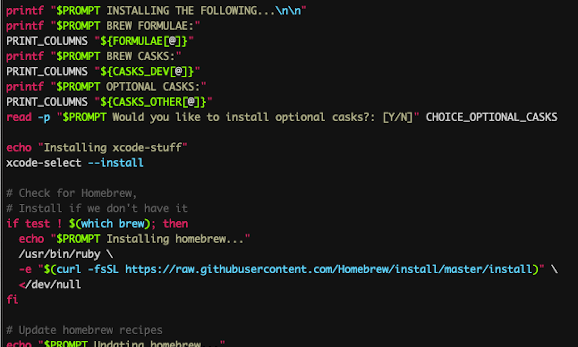
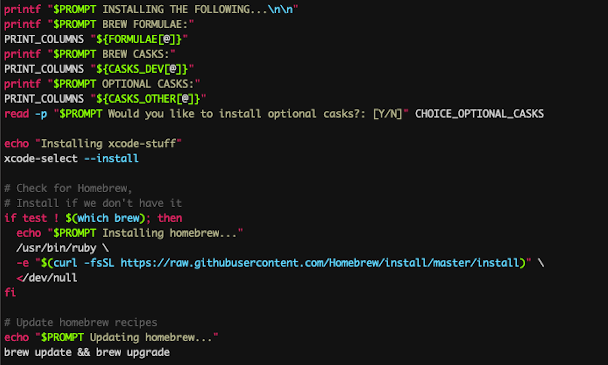
changed to better picture

Changed region(s): [[0.0, 0.0, 0.9654, 1.0]]

diff --git a/portfolio.html b/portfolio.html
@@ -56,9 +56,9 @@
       <div>
         <a href="#" class="card">
           <div class="thumb"
-            style="background-image: url('./img/images/macsetup.png);"></div>
+            style="background-image: url('./img/images/macsetup.png');"></div>
           <article>
-            <h1 class="card--header">Promogram</h1>
+            <h1 class="card--header">Mac Setup Scripts</h1>
             <p><span class="">Tech Stack:</span> Html, CSS</p>
             <p><span class="">Github:</span> www.github.com</p>
             <p><span class="">Deployed:</span> n/a</p>
